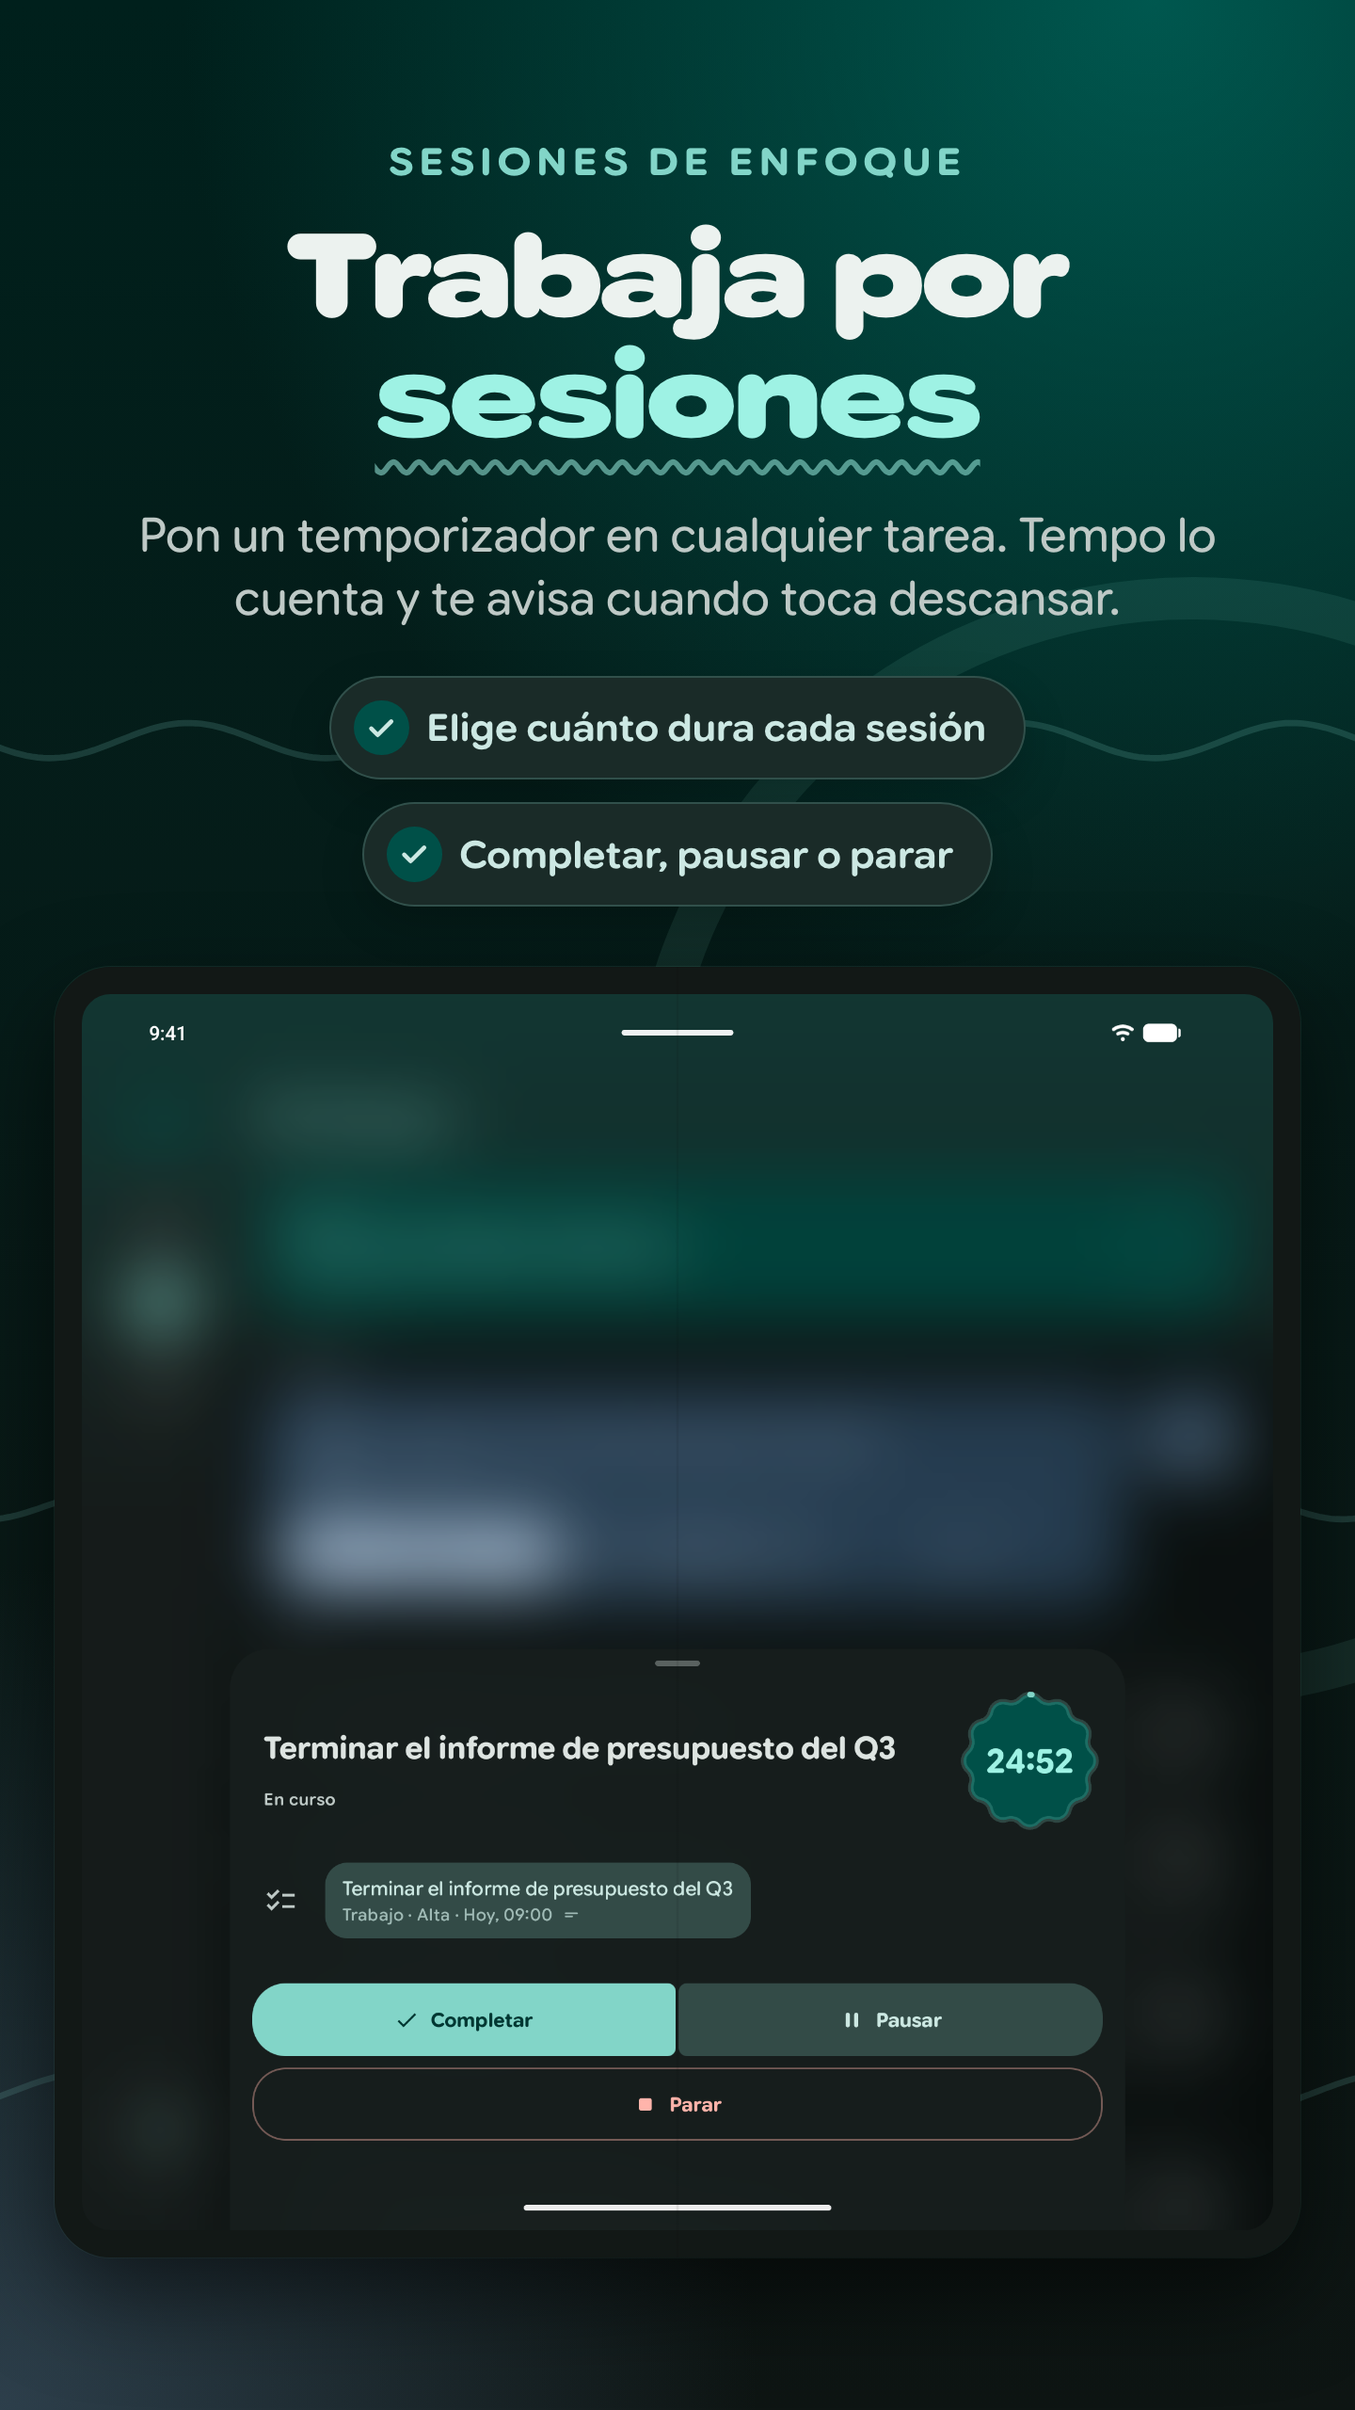
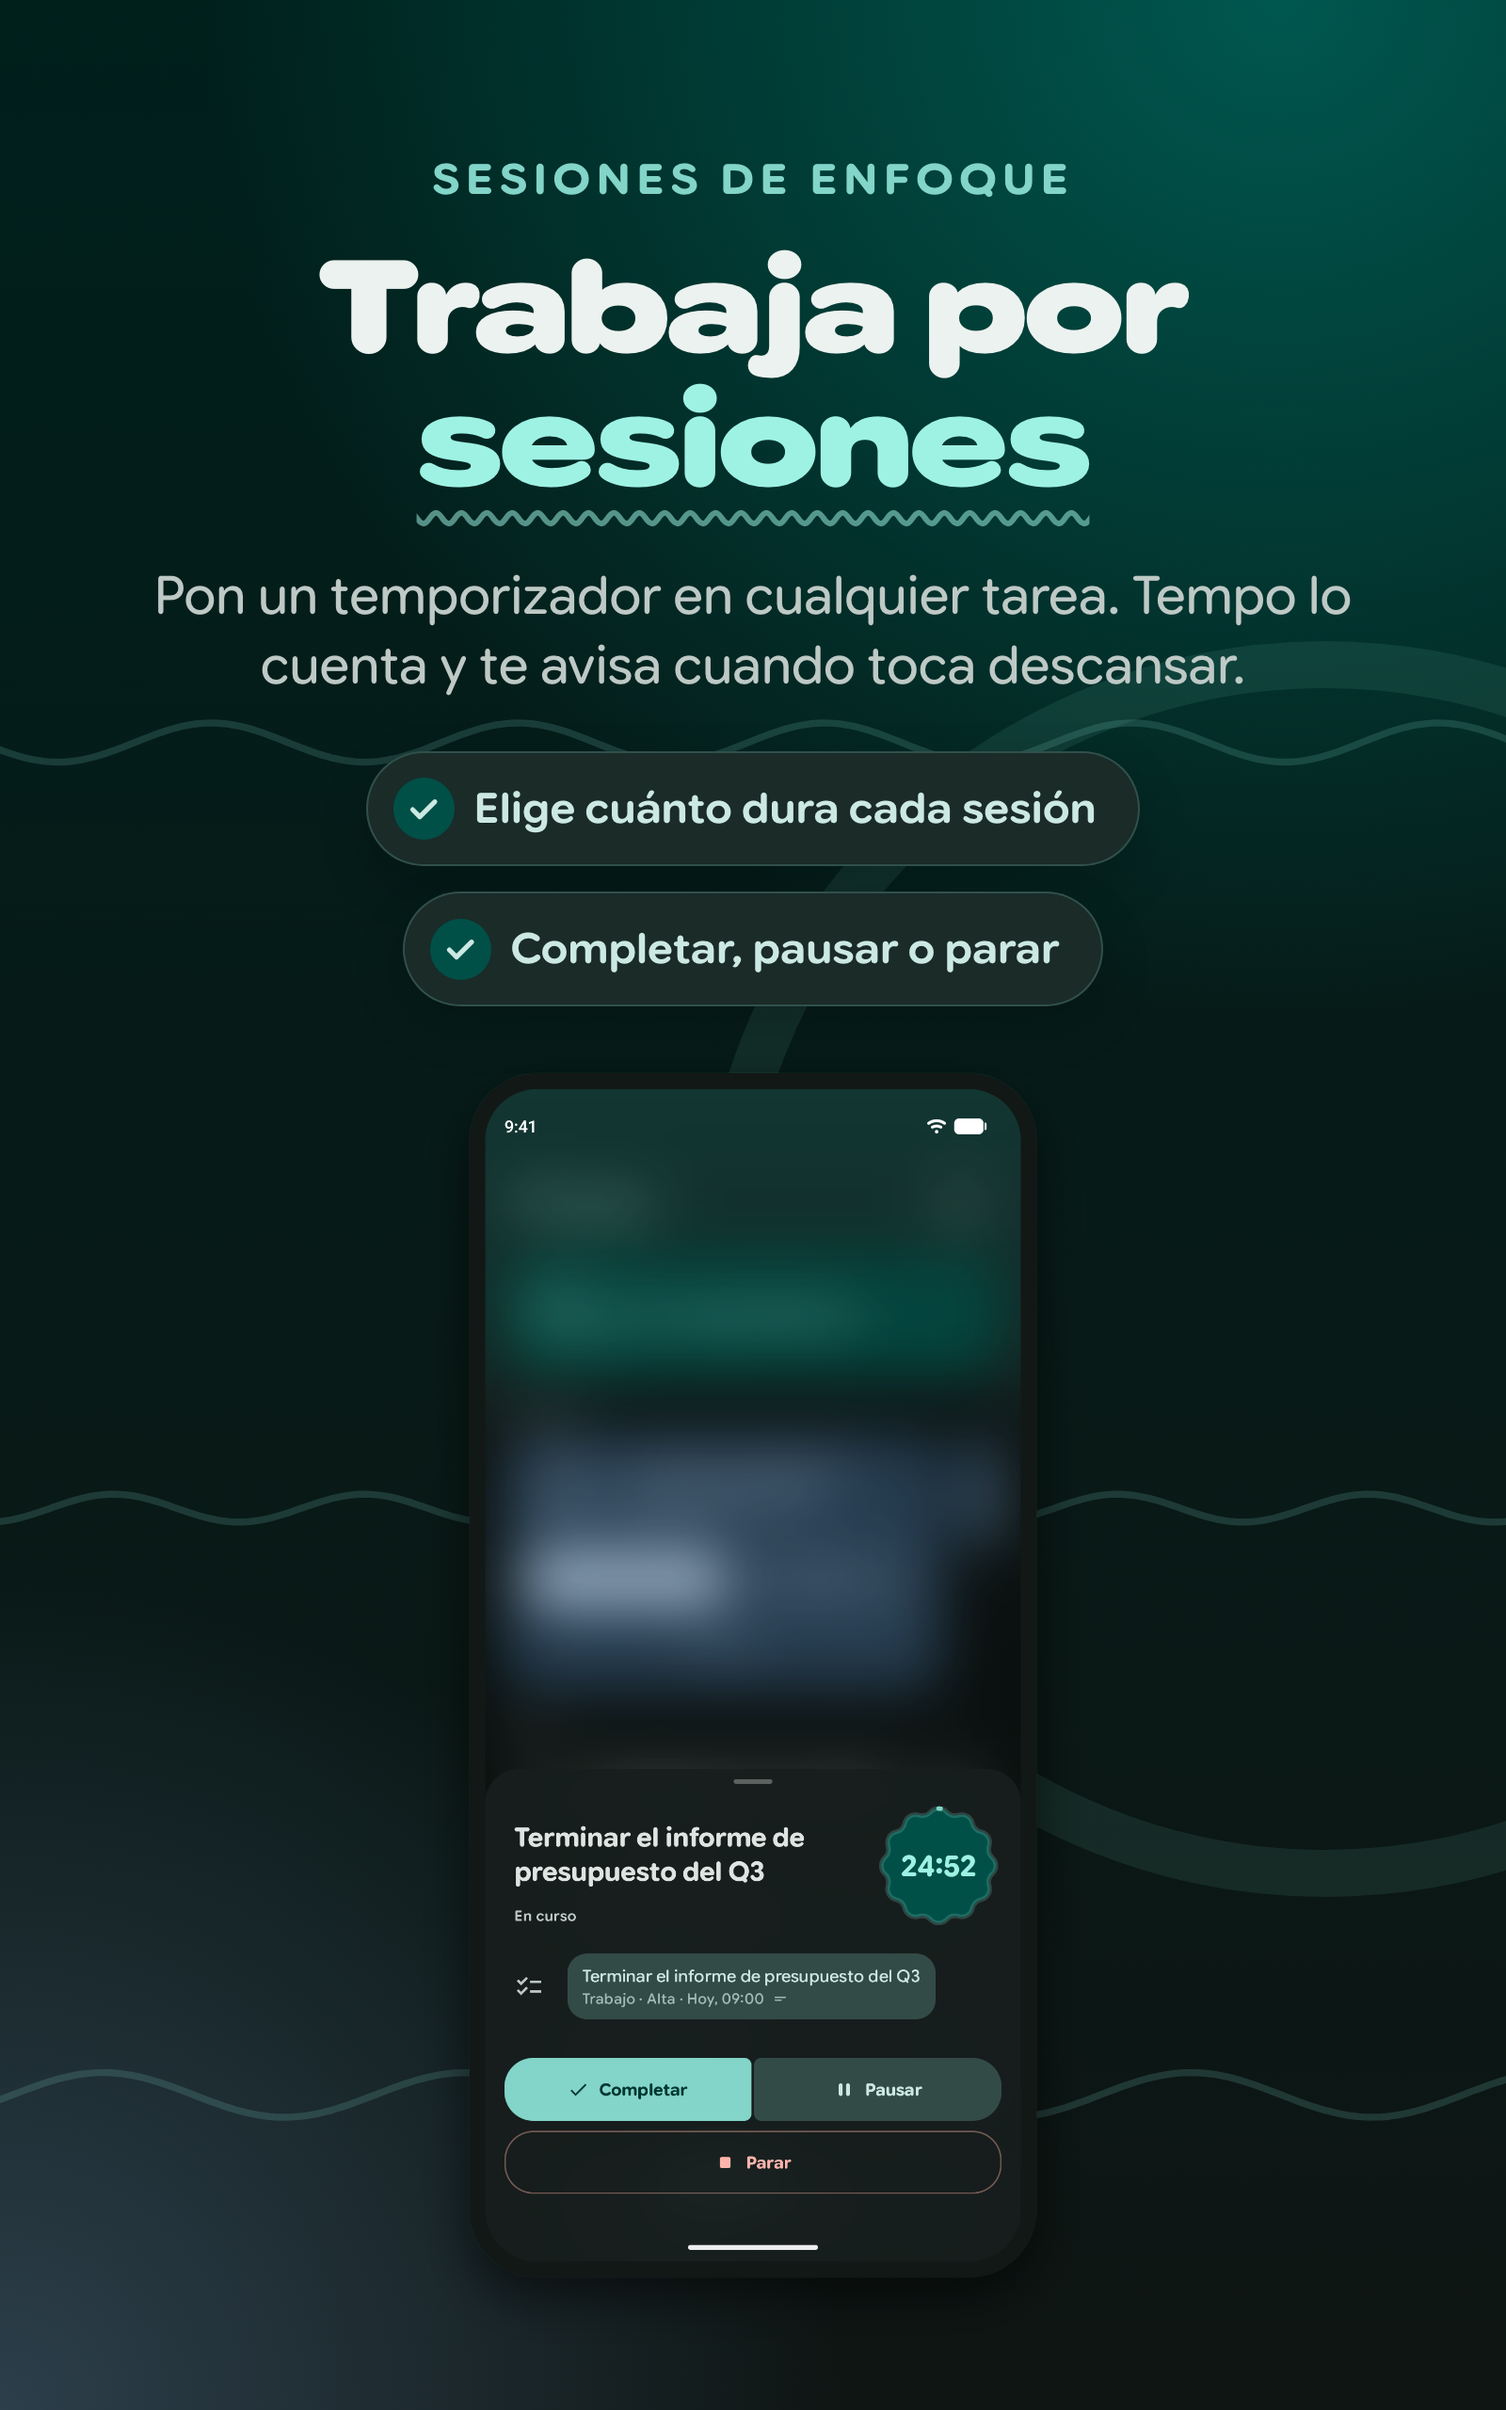
chore: give the foldable listing images the aspect ratios Play requires (#581)
## Summary
Play Console's foldable section rejected the 9:16 images with: "Upload
at least 1 unfolded screenshot in each of the 1:1 and 4:3 aspect ratios,
and 1 folded portrait screenshot in the 10:16 aspect ratio".

- Added `foldable_folded_*`: 16 captures from the Pixel 10 Pro Fold's
outer screen (1080×2364, taken after `adb emu fold`), en/es, light/dark.
- `compose-store-screenshots.py` now lets a form factor override the
canvas, layout, device, scale unit, text column width and raw prefix for
each slide. Foldable uses:
  - 1 Focus: 1:1 (2160×2160), unfolded
  - 2 Focus session: 10:16 (1600×2560), folded, phone frame
  - 3 Routines: 4:3 (2560×1920), unfolded
  - 4 Tasks: 1:1 (2160×2160), unfolded
  - 5 Privacy: 4:3 (2560×1920), unfolded pair
- README: Play's foldable requirements and how to run the folded
capture.

🤖 Generated with [Claude Code](https://claude.com/claude-code)

Changed region(s): [[0.0312, 0.0625, 0.9375, 0.9375], [0.9062, 0.75, 0.9688, 0.7812]]

diff --git a/scripts/compose-store-screenshots.py b/scripts/compose-store-screenshots.py
@@ -37,13 +37,26 @@ ICON = REPO / "app" / "src" / "main" / "res" / "mipmap-xxxhdpi" / "ic_launcher_r
 
 DEFAULT_CHROME = "/Applications/Google Chrome.app/Contents/MacOS/Google Chrome"
 
-# Canvas sizes. Play Console accepts 16:9 or 9:16 for every listing type; phone
-# and portrait tablet go 9:16 so the device can fill the frame, the wide form
-# factors go 16:9. All sides stay inside Play's 320/720/1080–3840/7680 bounds.
+# Canvas sizes. Play Console accepts 16:9 or 9:16 for every listing type but
+# foldables (see below); phone and portrait tablet go 9:16 so the device can fill
+# the frame, the wide form factors go 16:9. All sides stay inside Play's
+# 320/720/960/1080–3840/7680 bounds.
 FORM_FACTORS = {
     "phone":    {"size": (1080, 1920), "layout": "portrait",  "device": "phone"},
     "medium":   {"size": (1440, 2560), "layout": "portrait",  "device": "tablet"},
-    "foldable": {"size": (1440, 2560), "layout": "portrait",  "device": "foldable"},
+    # Play's foldable section wants at least one unfolded image at 1:1, one
+    # unfolded at 4:3 and one folded (outer screen) at 10:16 portrait, so each
+    # slide sets its own canvas. "unit" scales the type and spacing where the
+    # default (canvas width / 1080 in portrait) would be too big for a square;
+    # "text_w" narrows the landscape text column for a 4:3 canvas; "raw" picks
+    # the folded captures.
+    "foldable": {"device": "foldable", "slides": {
+        0: {"size": (2160, 2160), "layout": "portrait", "unit": 1.1},
+        1: {"size": (1600, 2560), "layout": "portrait", "device": "phone", "raw": "foldable_folded"},
+        2: {"size": (2560, 1920), "layout": "landscape", "text_w": 800},
+        3: {"size": (2160, 2160), "layout": "portrait", "unit": 1.1},
+        4: {"size": (2560, 1920), "layout": "landscape", "text_w": 800},
+    }},
     "expanded": {"size": (2560, 1440), "layout": "landscape", "device": "tablet"},
     "desktop":  {"size": (2560, 1440), "layout": "landscape", "device": "monitor"},
     "xr":       {"size": (2560, 1440), "layout": "landscape", "device": "spatial"},
@@ -59,6 +72,12 @@ SLIDES = [
     ("5_private", ["light", "dark"]),
 ]
 SLIDE_RAW = {"5_private": "1_focus_today"}
+
+
+def slide_spec(ff, idx):
+    """The form factor's spec with that slide's overrides, if it has any."""
+    spec = FORM_FACTORS[ff]
+    return {**spec, **spec.get("slides", {}).get(idx, {})}
 
 # Copy, one entry per slide with both locales side by side so neither can be
 # edited without the other in view. `<em>` marks the part of the headline that
@@ -213,14 +232,14 @@ def chips_html(chips, cls="", styles=None):
 
 
 def build_page(ff, locale, idx, raw_paths):
-    spec = FORM_FACTORS[ff]
+    spec = slide_spec(ff, idx)
     W, H = spec["size"]
     slide_id, themes = SLIDES[idx]
     # The duo slide carries both themes; it sits on dark so the light phone pops.
     theme = THEMES["dark" if len(themes) > 1 else themes[0]]
     copy = COPY[idx][locale]
     portrait = spec["layout"] == "portrait"
-    u = W / 1080 if portrait else H / 1440  # scale unit
+    u = spec.get("unit") or (W / 1080 if portrait else H / 1440)  # scale unit
 
     title_size = (92 if portrait else 84) * u
     body_size = (38 if portrait else 40) * u
@@ -261,10 +280,15 @@ def build_page(ff, locale, idx, raw_paths):
             chip_block = ""
         text_style = f"left:{70 * u}px;right:{70 * u}px;top:{110 * u}px;text-align:center;align-items:center"
     else:
-        text_w = 1100 * u
-        dev_left = 1140 * u
+        text_w = spec.get("text_w", 1100) * u
+        dev_left = text_w + 40 * u
         avail = W - dev_left - 90 * u
-        if kind == "monitor":
+        if kind == "foldable":
+            # Nearly square: contained, as wide as the column allows without
+            # outgrowing the canvas height.
+            dev_w = min(avail, (H - 200 * u) / (2152 / 2076 + 0.044))
+            dev_h = dev_w * (2152 / 2076 + 0.044)
+        elif kind == "monitor":
             dev_w = avail
             dev_h = dev_w * (1080 / 1920) + dev_w * 0.028 + dev_w * 0.082
         elif kind == "spatial":
@@ -419,7 +443,9 @@ def main():
         for locale in locales:
             for idx, (slide_id, themes) in enumerate(SLIDES):
                 raw_view = SLIDE_RAW.get(slide_id, slide_id)
-                raws = [RAW / ff / f"{ff}_{locale}_{th}_{raw_view}.png" for th in themes]
+                spec = slide_spec(ff, idx)
+                prefix = spec.get("raw", ff)
+                raws = [RAW / ff / f"{prefix}_{locale}_{th}_{raw_view}.png" for th in themes]
                 missing = [r for r in raws if not r.exists()]
                 if missing:
                     print(f"skip {ff} {locale} {slide_id}: missing {missing[0].name}")
@@ -427,7 +453,7 @@ def main():
                 page = work / f"{ff}_{locale}_{slide_id}.html"
                 page.write_text(build_page(ff, locale, idx, raws), encoding="utf-8")
                 png = out_dir / f"{locale}_{slide_id}.png"
-                jobs.append((page, png, FORM_FACTORS[ff]["size"]))
+                jobs.append((page, png, spec["size"]))
     # Each render is a separate headless Chrome, mostly start-up time, so run a
     # few at once rather than paying for fifty cold starts back to back.
     with ThreadPoolExecutor(max_workers=min(6, os.cpu_count() or 1)) as pool:

diff --git a/distribution/screenshots/README.md b/distribution/screenshots/README.md
@@ -11,7 +11,7 @@ the app's UI changes enough to make these stale.
 distribution/screenshots/
   phone/     phone_{en,es}_{light,dark}_{1_focus_today,2_focus_session,3_routines_today,4_tasks_personal}.png
   medium/    medium_...
-  foldable/  foldable_...
+  foldable/  foldable_... (unfolded) and foldable_folded_... (outer screen)
   expanded/  expanded_...
   desktop/   desktop_...
   xr/        xr_...
@@ -20,7 +20,8 @@ distribution/screenshots/
                {en,es}_{1_focus_today,2_focus_session,3_routines_today,4_tasks_personal,5_private}.png
 ```
 
-4 views × light/dark × 2 locales × 6 form factors = 96 raw captures, and
+4 views × light/dark × 2 locales × 6 form factors = 96 raw captures, plus 16
+from the foldable's outer screen, and
 5 designed listing images × 2 locales × 6 form factors = 60 under `play-store/`.
 The raw captures are the input; the `play-store/` images are what gets uploaded
 (see [Designed listing images](#designed-listing-images)).
@@ -288,16 +289,22 @@ for LOCALE in en es; do
 done
 adb -s emulator-5554 emu kill
 
-# --- Foldable (unfolded) ---
+# --- Foldable: unfolded, then folded ---
 # Boots unfolded; confirm with `cmd device_state state` (OPENED) if a run
-# comes out phone-shaped. Only the inner screen is captured: folded, the
-# outer screen is a phone and the phone set already covers it.
+# comes out phone-shaped. Play's foldable section also wants a folded shot, so
+# the set is captured again on the outer screen (1080×2364) after `emu fold`
+# (CLOSED).
 android emulator start Pixel_10_Pro_Fold
 adb -s emulator-5554 install -r "$APK"
 adb -s emulator-5554 shell cmd overlay enable com.android.internal.systemui.navbar.gestural
 adb -s emulator-5554 shell cmd device_state state
 for LOCALE in en es; do
   bash scripts/generate-screenshot-set.sh emulator-5554 distribution/screenshots/foldable foldable "$LOCALE"
+done
+adb -s emulator-5554 emu fold
+adb -s emulator-5554 shell cmd device_state state
+for LOCALE in en es; do
+  bash scripts/generate-screenshot-set.sh emulator-5554 distribution/screenshots/foldable foldable_folded "$LOCALE"
 done
 adb -s emulator-5554 emu kill
 
@@ -382,7 +389,7 @@ wide, heavy for headlines) and the Tempo palette from `Color.kt`.
 |---|---|---|
 | Phone | 1080×1920 (9:16) | phone, whole screen, chips in a row above it |
 | Medium tablet | 1440×2560 (9:16) | tablet, portrait, same as phone |
-| Foldable | 1440×2560 (9:16) | unfolded foldable with a faint centre crease, wider than the tablet since its screen is nearly square |
+| Foldable | per slide: 1:1 (2160×2160), 10:16 (1600×2560), 4:3 (2560×1920) | unfolded foldable with a faint centre crease; the session slide is the folded outer screen in a phone frame |
 | Expanded tablet | 2560×1440 (16:9) | tablet, text column on the left |
 | Desktop | 2560×1440 (16:9) | monitor on a stand |
 | XR | 2560×1440 (16:9) | the 2558×1439 crop, bezel-less with a glow, like a panel in space |
@@ -424,9 +431,12 @@ rules keep it honest and in the app's voice:
 
 - **Phone / tablet**: no fixed aspect-ratio requirement observed to fail
   here; captured at each device's native resolution.
-- **Foldable**: Play Console has no foldable slot of its own; the foldable
-  images are meant for the tablet sections (a 7.6" inner screen sits with the
-  7-inch tablets).
+- **Foldable listing**: 3–8 PNG/JPEG, ≤8MB each, each side 960–3840px. At
+  least one unfolded image at 1:1, one unfolded at 4:3 and one folded portrait
+  at 10:16; any others at 4:3, 3:4, 16:10, 10:16, 1:1, 16:9 or 9:16. So the
+  foldable slides don't share one canvas: Focus and Tasks are 1:1, Routines and
+  Privacy 4:3 (all unfolded), and the session slide is 10:16 on the outer
+  screen, where the session sheet reads as it does on a phone.
 - **Desktop (Chromebook) listing**: 4–8 PNG/JPEG, ≤8MB each, 16:9 or 9:16,
   each side 1080–7680px. `Small_Desktop` (1366×768) fails on the
   768px height; `Large_Desktop` (1920×1080) is exact 16:9 and clears the
